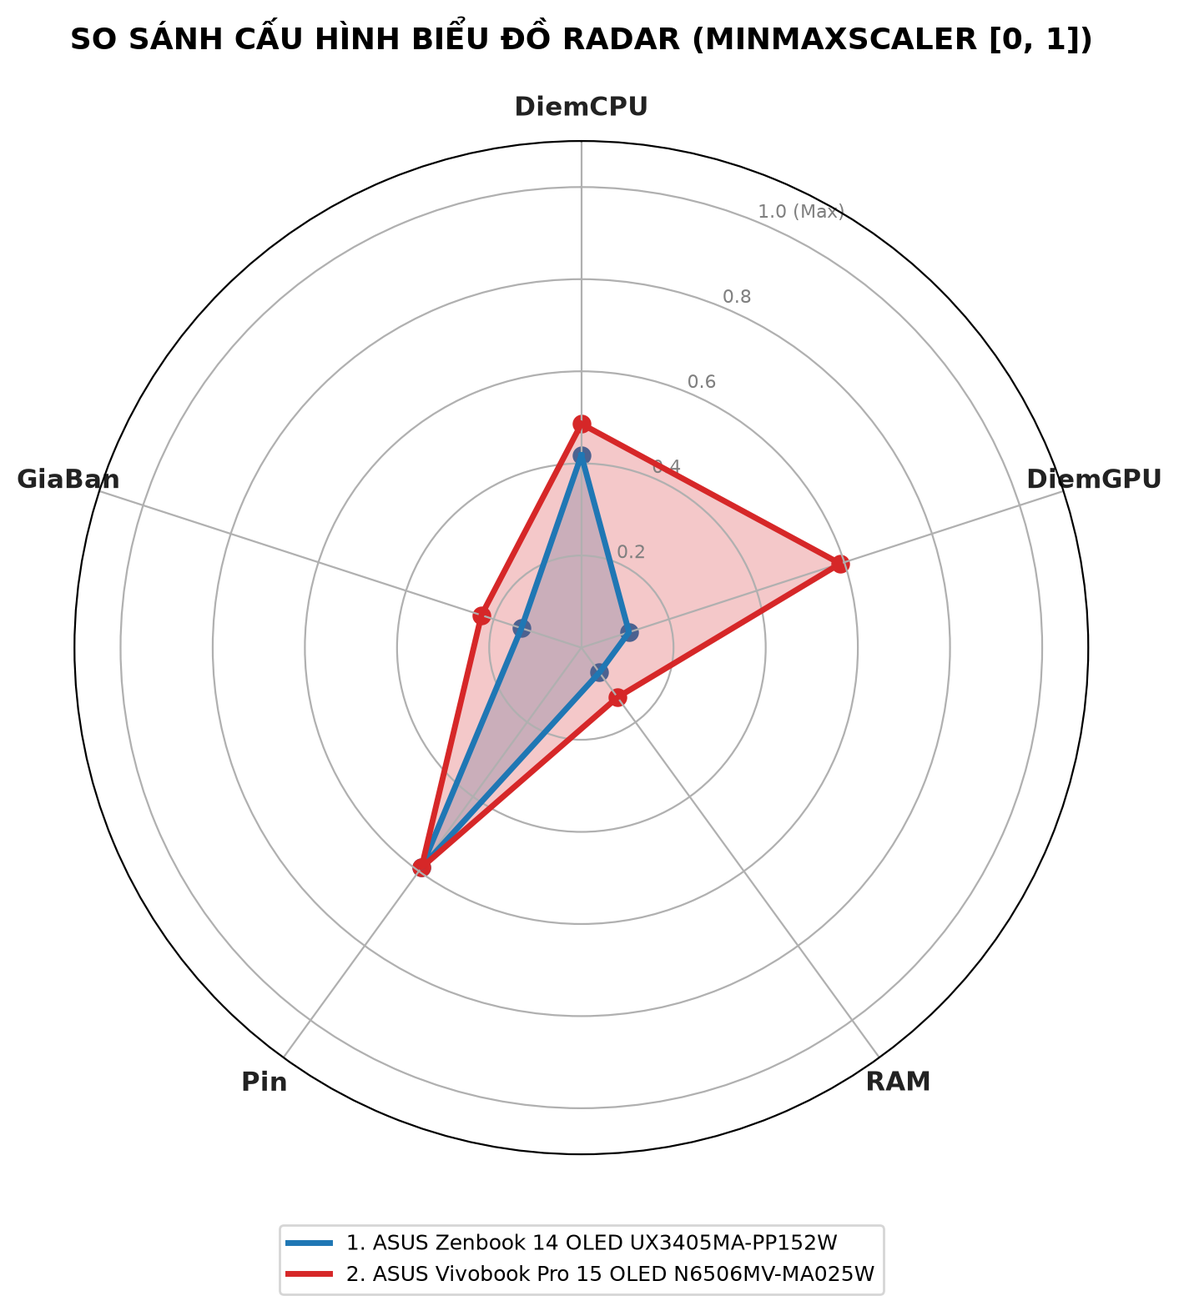
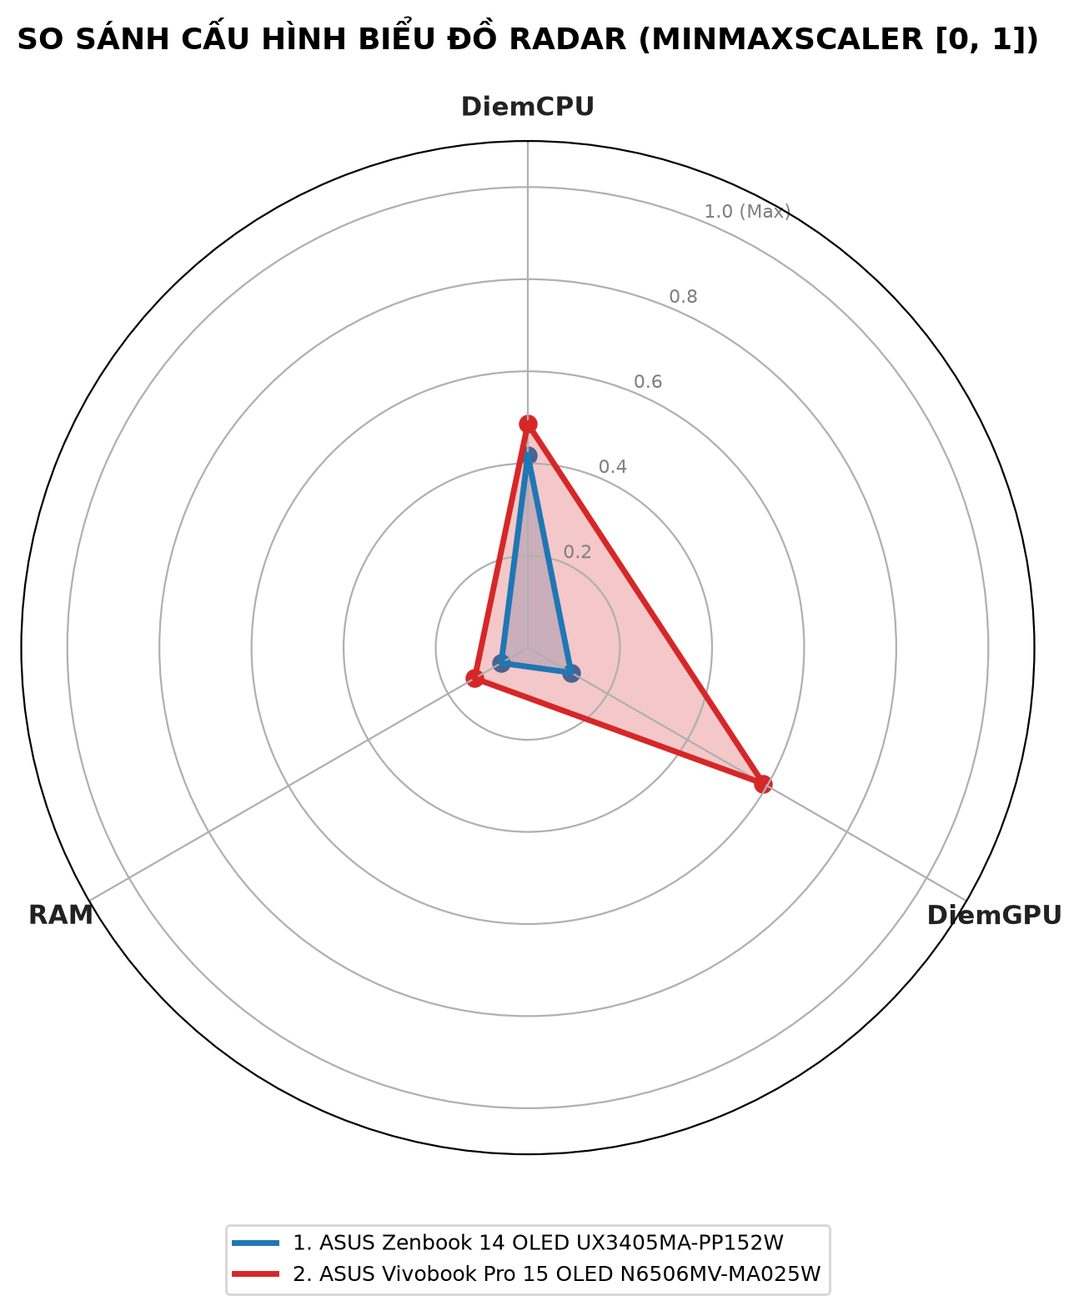
Mo ta nhung gi ban vua sua hoac bo sung

diff --git a/templates/clustering.html b/templates/clustering.html
@@ -5,14 +5,13 @@
     <div class="col-12">
         <div class="d-flex justify-content-between align-items-center flex-wrap gap-2">
             <div>
-                <span class="badge bg-primary px-3 py-2 mb-2">PHẦN 3: MACHINE LEARNING & GIẢM CHIỀU</span>
-                <h1 class="h3 fw-bold text-dark">Phân Nhóm Laptop Tự Động (K-Means) & PCA 2D</h1>
-                <p class="text-muted mb-0">Hệ thống áp dụng thuật toán học máy không giám sát K-Means Clustering kết hợp
-                    PCA để phân loại thị trường laptop thành các nhóm đặc trưng.</p>
+                <span class="badge bg-primary px-3 py-2 mb-2">SỰ LỰA CHỌN TỐI ƯU</span>
+                <h1 class="h3 fw-bold text-dark">Phân Nhóm Laptop Dựa Trên Nhu Cầu Sử Dụng Của Khách Hàng</h1>
+                <p class="text-muted mb-0">Dành cho những khách hàng còn đang phân vân với nhu cầu sử dụng của mình.</p>
             </div>
             <div class="d-flex gap-2">
                 <a href="/radar" class="btn btn-outline-danger">
-                    🕸 So sánh Radar Chart
+                    🕸 So Sánh Chi Tiết
                 </a>
                 <a href="/laptops" class="btn btn-outline-primary">
                     📋 Xem Kho Dữ Liệu
@@ -84,18 +83,25 @@
     <div class="col-lg-7">
         <div class="card shadow-sm border-0 h-100">
             <div class="card-header bg-white py-3 border-bottom">
-                <h5 class="card-title fw-bold mb-0 text-primary">Biểu Đồ Phân Bố Cụm 2D (PCA Projection)</h5>
-                <small class="text-muted">Nén 9 đặc trưng kỹ thuật xuống 2 thành phần chính (PC1 & PC2) để trực quan hóa
-                    không gian đa chiều.</small>
+                <h5 class="card-title fw-bold mb-0 text-primary">Biểu Đồ Phân Bố Các Cụm Máy Tính Trên Thị Trường (PCA).
+                </h5>
+                <small class="text-muted">Biểu đồ 2D thể hiện sự phân hóa rõ nét giữa các dòng máy tính.</small>
             </div>
             <div class="card-body text-center p-3">
                 <img src="{{ url_for('static', filename='images/pca_clusters.png') }}?v={{ cache_id }}"
                     alt="Biểu đồ phân cụm PCA 2D" class="img-fluid rounded border shadow-sm">
             </div>
-            <div class="card-footer bg-light small text-muted">
-                <strong>Ý nghĩa kỹ thuật:</strong> Trục hoành PC1 thể hiện sức mạnh cấu hình và tầm giá (chiếm >60%
-                phương sai). Trục tung PC2 thể hiện tính di động và kích thước màn hình. Các dấu X màu đen là tâm cụm
-                (Centroids).
+            <div class="card-footer bg-light p-3 small text-muted">
+                <div class="fw-bold text-dark mb-1">Cách đọc nhanh các trục tọa độ:</div>
+                <div class="mb-1">
+                    <strong class="text-dark">Trục ngang:</strong> Lệch sang Trái là laptop cấu hình cơ bản, giá rẻ bình
+                    dân;
+                    lệch sang Phải là laptop cấu hình rất mạnh, đồ họa cao và giá đắt.
+                </div>
+                <div>
+                    <strong class="text-dark">Trục dọc:</strong> Ở phía Dưới là thân máy dày, màn hình lớn và nặng hơn;
+                    ở phía Trên là máy thiết kế mỏng nhẹ, màn hình nhỏ gọn và pin lâu.
+                </div>
             </div>
         </div>
     </div>
@@ -111,10 +117,104 @@
                 <img src="{{ url_for('static', filename='images/elbow_silhouette_analysis.png') }}?v={{ cache_id }}"
                     alt="Phương pháp Elbow và Silhouette Score" class="img-fluid rounded border shadow-sm">
             </div>
-            <div class="card-footer bg-light small text-muted">
-                <strong>Ý nghĩa kỹ thuật:</strong> Đồ thị bên trái biểu diễn Inertia giảm dần; đồ thị bên phải chỉ ra
-                Silhouette Score cao nhất tại k tối ưu, chứng minh các nhóm phân cụm có độ gắn kết cao và tách biệt tốt
-                nhất.
+            <div class="card-footer bg-light p-3 small text-muted">
+                <div class="fw-bold text-dark mb-1">Cách đọc đồ thị chọn số nhóm k:</div>
+                <div class="mb-1">
+                    <strong class="text-dark">Đồ thị bên trái:</strong> Đoạn dốc gập mạnh nhất tại mốc số 3, chứng minh
+                    chia làm 3 nhóm giúp gom cụm gọn gàng nhất.
+                </div>
+                <div>
+                    <strong class="text-dark">Đồ thị bên phải:</strong> Điểm số phân tách cao tại mốc số 3, chứng minh 3
+                    nhóm máy có ranh giới rõ ràng, không bị chồng lấn.
+                </div>
+            </div>
+        </div>
+    </div>
+</div>
+
+<!-- KHỐI HƯỚNG DẪN CHI TIẾT THEO NGÔN NGỮ TỰ NHIÊN DÀNH CHO MỌI NGƯỜI (KHÔNG DÙNG ICON) -->
+<div class="card border-0 shadow-sm mb-5 bg-white border-start border-4 border-primary">
+    <div class="card-body p-4">
+        <div class="mb-3">
+            <h5 class="fw-bold text-dark mb-1">Hướng Dẫn Chi Tiết Cách Đọc Biểu Đồ. </h5>
+            <small class="text-muted">Dành cho mọi người xem đều có thể dễ dàng hiểu được ý nghĩa các trục tọa độ và màu
+                sắc trên biểu đồ.</small>
+        </div>
+
+        <div class="row g-4">
+            <!-- Cột 1: Hướng dẫn đọc trục ngang và trục dọc -->
+            <div class="col-md-6 border-end-md">
+                <div class="bg-light p-3 rounded h-100">
+                    <h6 class="fw-bold text-primary mb-3">1. Quy luật đọc vị trí theo Trục ngang và Trục dọc:</h6>
+
+                    <div class="small mb-3">
+                        <div class="fw-bold text-dark mb-1">Đối với Trục ngang (Thước đo sức mạnh cấu hình và mức giá):
+                        </div>
+                        <div class="text-muted ps-2 border-start border-2 border-primary mb-2">
+                            - Lệch sang TRÁI: Đại diện cho các dòng laptop có cấu hình cơ bản, sử dụng card đồ họa tích
+                            hợp onboard, phục vụ tốt cho nhu cầu học tập và tin học văn phòng thông thường, mức giá bán
+                            rẻ và bình dân từ 8 triệu đến dưới 20 triệu đồng.
+                        </div>
+                        <div class="text-muted ps-2 border-start border-2 border-primary">
+                            - Lệch sang PHẢI: Đại diện cho các dòng laptop có cấu hình phần cứng rất mạnh mẽ với CPU
+                            nhiều nhân, card đồ họa rời hiệu năng cao, dung lượng RAM lớn, phục vụ chơi game nặng và làm
+                            đồ họa chuyên nghiệp, mức giá thành đắt đỏ từ 30 triệu đến trên 100 triệu đồng.
+                        </div>
+                    </div>
+
+                    <div class="small">
+                        <div class="fw-bold text-dark mb-1">Đối với Trục dọc (Thước đo kích thước và độ mỏng nhẹ):</div>
+                        <div class="text-muted ps-2 border-start border-2 border-success mb-2">
+                            - Ở phía DƯỚI: Đại diện cho các dòng máy có thân máy dày, kích thước màn hình lớn từ 15.6
+                            đến 16 inch và trọng lượng nặng hơn từ 2.0 kg đến 2.6 kg trở lên do phải chứa bộ quạt tản
+                            nhiệt lớn để làm mát linh kiện khi hoạt động nặng.
+                        </div>
+                        <div class="text-muted ps-2 border-start border-2 border-success">
+                            - Ở phía TRÊN: Đại diện cho các dòng máy được thiết kế theo xu hướng siêu mỏng nhẹ, kích
+                            thước màn hình nhỏ gọn từ 13.3 đến 14.0 inch, trọng lượng nhẹ chỉ từ 1.0 kg đến 1.3 kg, thời
+                            lượng pin lâu dài và tính cơ động rất cao.
+                        </div>
+                    </div>
+                </div>
+            </div>
+
+            <!-- Cột 2: Ý nghĩa màu sắc và lý do chọn 3 nhóm -->
+            <div class="col-md-6">
+                <div class="bg-light p-3 rounded h-100">
+                    <h6 class="fw-bold text-success mb-3">2. Ý nghĩa các màu sắc và lý do phân thành 3 nhóm máy:</h6>
+
+                    <div class="small mb-3">
+                        <div class="fw-bold text-dark mb-1">Ý nghĩa các nhóm màu sắc trên biểu đồ:</div>
+                        <div class="text-muted ps-2 border-start border-2 border-secondary mb-1">
+                            - Cụm Màu Xanh Dương (nằm lệch về phía bên trái): Nhóm Laptop Văn phòng và Học tập đa nhiệm.
+                        </div>
+                        <div class="text-muted ps-2 border-start border-2 border-secondary mb-1">
+                            - Cụm Màu Cam (nằm ở giữa và hơi lệch xuống phía dưới): Nhóm Laptop Gaming và Đồ họa tầm
+                            trung.
+                        </div>
+                        <div class="text-muted ps-2 border-start border-2 border-secondary mb-1">
+                            - Cụm Màu Xanh Lá (nằm riêng biệt ở góc bên phải): Nhóm Laptop Gaming Flagship và Máy trạm
+                            cao cấp.
+                        </div>
+                        <div class="text-muted ps-2 border-start border-2 border-secondary">
+                            - Dấu chữ X màu đen: Vị trí trung tâm đại diện cho thông số cấu hình trung bình của từng
+                            nhóm máy.
+                        </div>
+                    </div>
+
+                    <div class="small text-muted p-3 bg-white rounded border">
+                        <div class="fw-bold text-dark mb-1">Lý do chọn chia thành 3 nhóm máy:</div>
+                        <div>
+                            - Nếu chỉ chia 2 nhóm: Quá thô sơ, khiến chiếc máy văn phòng 10 triệu đồng bị gộp chung với
+                            chiếc máy chơi game 30 triệu đồng.
+                            <br>- Nếu chia 4 hoặc 5 nhóm: Thị trường bị chia cắt vụn vặt, người xem bị rối mắt và các
+                            nhóm bị trùng lặp.
+                            <br>- Chia làm 3 nhóm (k = 3): Đạt tỷ lệ cân bằng tối ưu, tương ứng chính xác với 3 phân
+                            khúc nhu cầu thực tế trên thị trường: Máy văn phòng giá mềm, Máy chơi game vừa tiền, và Máy
+                            cấu hình cao đắt tiền.
+                        </div>
+                    </div>
+                </div>
             </div>
         </div>
     </div>
@@ -204,7 +304,7 @@
         </table>
     </div>
     <div class="card-footer bg-light text-muted small d-flex justify-content-between align-items-center py-2">
-        <span>Hiển thị toàn bộ dữ liệu từ file <code>results_clustered.csv</code></span>
+
         <span id="rowCountDisplay" class="fw-bold">225 / 225 laptop</span>
     </div>
 </div>
@@ -288,7 +388,7 @@
             <div class="modal-footer bg-white py-2 d-flex justify-content-between">
                 <span class="text-muted small">
                     💡 Mẹo: Bạn có thể chọn tên laptop bất kỳ trong bảng này và mang sang trang
-                    <a href="/radar" class="fw-bold text-danger">So sánh Radar Chart</a> để phân tích chi tiết.
+                    <a href="/radar" class="fw-bold text-danger">So Sánh Chi Tiết</a> để phân tích chi tiết.
                 </span>
                 <button type="button" class="btn btn-secondary btn-sm px-3" data-bs-dismiss="modal">Đóng</button>
             </div>

diff --git a/templates/radar.html b/templates/radar.html
@@ -5,13 +5,14 @@
     <div class="col-12">
         <div class="d-flex justify-content-between align-items-center flex-wrap gap-2">
             <div>
-                <span class="badge bg-danger px-3 py-2 mb-2">PHẦN 3: SO SÁNH TRỰC QUAN ĐA CHIỀU</span>
+                <span class="badge bg-danger px-3 py-2 mb-2">Laptop nào phù hợp với bạn? So sánh để tìm câu trả lời
+                    nhé.</span>
                 <h1 class="h3 fw-bold text-dark">So Sánh Cấu Hình Bằng Biểu Đồ Radar (Spider Plot)</h1>
-                <p class="text-muted mb-0">Công cụ đối chiếu 2 mẫu laptop trên hệ trục tọa độ cực (Polar) sau khi chuẩn hóa MinMaxScaler về thang [0, 1].</p>
+                <p class="text-muted mb-0">Đối chiếu cấu hình hai laptop để thấy rõ điểm mạnh, điểm yếu.</p>
             </div>
             <div>
                 <a href="/clustering" class="btn btn-outline-primary">
-                    📊 Xem Phân Cụm K-Means & PCA
+                    Xem Phân Loại
                 </a>
             </div>
         </div>
@@ -30,11 +31,11 @@
                     <!-- Chọn Máy 1 -->
                     <div class="mb-3">
                         <label class="form-label fw-bold text-primary">
-                            🔵 Laptop 1 (Đường màu Xanh):
+                            Laptop 1 (Đường viền màu Xanh):
                         </label>
                         <select name="p1" class="form-select form-select-sm" required>
                             {% for lap in all_laptops %}
-                            <option value="{{ lap }}" {% if lap == selected_p1 %}selected{% endif %}>
+                            <option value="{{ lap }}" {% if lap==selected_p1 %}selected{% endif %}>
                                 {{ lap }}
                             </option>
                             {% endfor %}
@@ -44,11 +45,11 @@
                     <!-- Chọn Máy 2 -->
                     <div class="mb-3">
                         <label class="form-label fw-bold text-danger">
-                            🔴 Laptop 2 (Đường màu Đỏ):
+                            Laptop 2 (Đường viền màu Đỏ):
                         </label>
                         <select name="p2" class="form-select form-select-sm" required>
                             {% for lap in all_laptops %}
-                            <option value="{{ lap }}" {% if lap == selected_p2 %}selected{% endif %}>
+                            <option value="{{ lap }}" {% if lap==selected_p2 %}selected{% endif %}>
                                 {{ lap }}
                             </option>
                             {% endfor %}
@@ -61,8 +62,8 @@
                         <div class="border rounded p-2 bg-light small">
                             {% for attr in available_attributes %}
                             <div class="form-check">
-                                <input class="form-check-input" type="checkbox" name="attrs" value="{{ attr }}" 
-                                       id="attr_{{ attr }}" {% if attr in selected_attrs %}checked{% endif %}>
+                                <input class="form-check-input" type="checkbox" name="attrs" value="{{ attr }}"
+                                    id="attr_{{ attr }}" {% if attr in selected_attrs %}checked{% endif %}>
                                 <label class="form-check-label" for="attr_{{ attr }}">
                                     {{ attr }}
                                 </label>
@@ -72,14 +73,11 @@
                     </div>
 
                     <button type="submit" class="btn btn-primary w-100 fw-bold py-2 shadow-sm">
-                        🔄 Cập Nhật Biểu Đồ Radar
+                        Cập Nhật Biểu Đồ
                     </button>
                 </form>
             </div>
-            <div class="card-footer bg-light small text-muted">
-                <strong>Gợi ý:</strong> Bạn cũng có thể chạy lệnh từ Terminal bằng script CLI:
-                <code>python radarChartPlot.py --p1 "{{ selected_p1 }}" --p2 "{{ selected_p2 }}" --Attribute "{{ ','.join(selected_attrs) }}"</code>
-            </div>
+
         </div>
     </div>
 
@@ -88,19 +86,29 @@
         <div class="card shadow-sm border-0 mb-4">
             <div class="card-header bg-white py-3 border-bottom d-flex justify-content-between align-items-center">
                 <h5 class="card-title fw-bold mb-0">Biểu Đồ Radar So Sánh Trực Quan</h5>
-                <a href="{{ url_for('static', filename='images/radar_comparison.png') }}?v={{ cache_id }}" 
-                   download="radar_comparison.png" class="btn btn-sm btn-outline-success">
-                    💾 Tải Ảnh Biểu Đồ
+                <a href="{{ url_for('static', filename='images/radar_comparison.png') }}?v={{ cache_id }}"
+                    download="radar_comparison.png" class="btn btn-sm btn-outline-success">
+                    Tải Ảnh Biểu Đồ
                 </a>
             </div>
             <div class="card-body text-center p-3">
-                <img src="{{ url_for('static', filename='images/radar_comparison.png') }}?v={{ cache_id }}" 
-                     alt="Biểu đồ so sánh Radar Chart" class="img-fluid rounded border shadow-sm" style="max-height: 600px;">
+                <img src="{{ url_for('static', filename='images/radar_comparison.png') }}?v={{ cache_id }}"
+                    alt="Biểu đồ so sánh Radar Chart" class="img-fluid rounded border shadow-sm"
+                    style="max-height: 600px;">
+            </div>
+            <div class="card-footer bg-light p-3 small text-muted">
+                <div class="fw-bold text-dark mb-1">Quy tắc đọc nhanh biểu đồ:</div>
+                <div class="mb-1">
+                    - Mỗi đỉnh xung quanh vòng tròn đại diện cho một tiêu chí cấu hình. Điểm ở tâm vòng tròn là 0 (thấp nhất), điểm ở mép vòng tròn ngoài cùng là 1.0 (cao nhất thị trường).
+                </div>
+                <div>
+                    - Đỉnh của máy nào kéo càng xa tâm về phía tiêu chí nào thì máy đó càng vượt trội ở tiêu chí đó. Vùng màu của máy nào có diện tích rộng hơn thì máy đó sở hữu cấu hình tổng thể mạnh hơn.
+                </div>
             </div>
         </div>
 
         <!-- Bảng chi tiết đối chiếu thông số -->
-        <div class="card shadow-sm border-0">
+        <div class="card shadow-sm border-0 mb-4">
             <div class="card-header bg-white py-3 border-bottom">
                 <h5 class="card-title fw-bold mb-0">Bảng Đối Chiếu Chỉ Số Trực Tiếp</h5>
             </div>
@@ -109,8 +117,8 @@
                     <thead class="table-light">
                         <tr>
                             <th class="text-start ps-3">Thuộc Tính</th>
-                            <th class="text-primary text-start">🔵 {{ selected_p1 }}</th>
-                            <th class="text-danger text-start">🔴 {{ selected_p2 }}</th>
+                            <th class="text-primary text-start">Laptop 1 (Màu xanh): {{ selected_p1 }}</th>
+                            <th class="text-danger text-start">Laptop 2 (Màu đỏ): {{ selected_p2 }}</th>
                             <th>Đơn Vị / Thang Đo</th>
                         </tr>
                     </thead>
@@ -131,6 +139,46 @@
                         {% endfor %}
                     </tbody>
                 </table>
+            </div>
+        </div>
+
+        <!-- Khối hướng dẫn chi tiết cách đọc biểu đồ Radar bằng ngôn ngữ tự nhiên (không dùng icon) -->
+        <div class="card border-0 shadow-sm mb-4 bg-white border-start border-4 border-danger">
+            <div class="card-body p-4">
+                <div class="mb-3">
+                    <h5 class="fw-bold text-dark mb-1">Hướng Dẫn Chi Tiết Cách Đọc Biểu Đồ So Sánh</h5>
+                    <small class="text-muted">Giúp bạn nhanh chóng nhìn ra điểm mạnh và điểm yếu của từng máy mà không cần kiến thức kỹ thuật phức tạp.</small>
+                </div>
+                
+                <div class="row g-3 small text-muted">
+                    <div class="col-md-6">
+                        <div class="bg-light p-3 rounded h-100">
+                            <div class="fw-bold text-dark mb-2">1. Quy luật các vòng tròn và chóp nhọn:</div>
+                            <div class="mb-2">
+                                - Điểm ở tâm vòng tròn (mức 0.0): Đại diện cho mức thấp nhất trong thị trường.
+                                <br>- Mép vòng tròn ngoài cùng (mức 1.0 Max): Đại diện cho mức cao nhất trong thị trường.
+                            </div>
+                            <div>
+                                - Chóp nhọn đâm càng xa về hướng tiêu chí nào: Nghĩa là chiếc máy đó sở hữu thế mạnh vượt trội ở tiêu chí đó.
+                                <br>Ví dụ: Chóp nhọn đâm sát mép ngoài ở DiemGPU nghĩa là card đồ họa cực khỏe; đâm sát mép ngoài ở Pin nghĩa là dung lượng pin rất trâu.
+                            </div>
+                        </div>
+                    </div>
+
+                    <div class="col-md-6">
+                        <div class="bg-light p-3 rounded h-100">
+                            <div class="fw-bold text-dark mb-2">2. Quy luật màu sắc và diện tích bao phủ:</div>
+                            <div class="mb-2">
+                                - Vùng màu Xanh Dương: Thể hiện thông số của Laptop 1.
+                                <br>- Vùng màu Đỏ: Thể hiện thông số của Laptop 2.
+                            </div>
+                            <div>
+                                - So sánh diện tích: Chiếc máy nào có phần diện tích phủ màu rộng hơn và bao trùm lấy máy còn lại thì chiếc máy đó có cấu hình tổng thể mạnh hơn.
+                                <br>- Điểm thụt sâu vào tâm: Thể hiện điểm yếu, điểm còn hạn chế của chiếc máy đó khi so với đối thủ.
+                            </div>
+                        </div>
+                    </div>
+                </div>
             </div>
         </div>
     </div>

diff --git a/templates/base.html b/templates/base.html
@@ -38,13 +38,13 @@
                     <li class="nav-item">
                         <a class="nav-link {% if request.path == '/clustering' %}active fw-bold text-white{% endif %}"
                             href="/clustering">
-                            📊 Phân Cụm K-Means
+                            📊 Phân Loại
                         </a>
                     </li>
                     <li class="nav-item">
                         <a class="nav-link btn btn-danger text-white btn-sm px-3 {% if request.path == '/radar' %}active fw-bold{% endif %}"
                             href="/radar">
-                            🕸 So sánh Radar
+                            🕸 So Sánh Chi Tiết
                         </a>
                     </li>
                 </ul>
